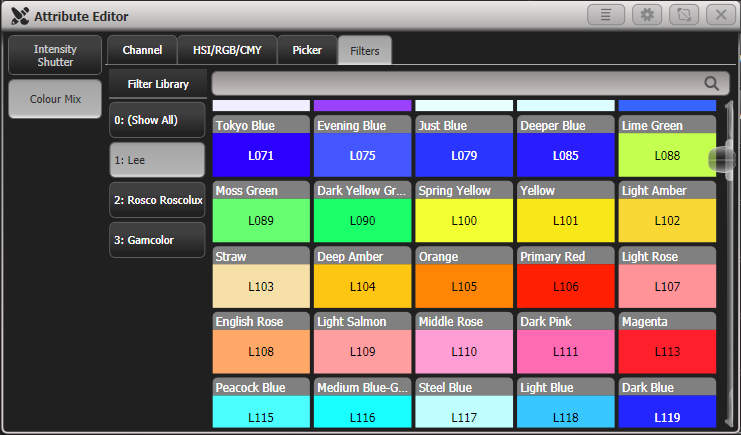
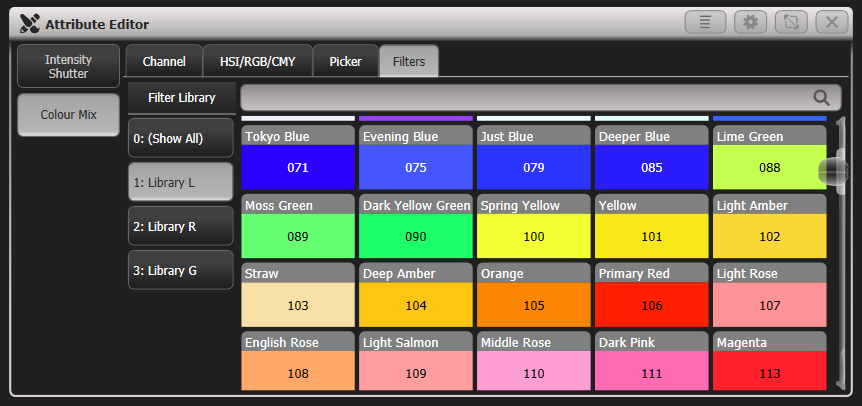
Update colour filter selection to remove brand names

diff --git a/docs/controlling-fixtures/changing-fixture-attributes.md b/docs/controlling-fixtures/changing-fixture-attributes.md
@@ -238,12 +238,12 @@ hand side to set the intensity.
 
 ![Attribute Editor - Colour Filters](/docs/images/Attribute-Editor-Filters.png)
 
-Lets you pick a gel/filter colour from the Lee, Roscolux or GamColor
+Lets you pick a gel/filter colour from commonly used
 ranges of filters. You can search for a particular colour by name or by
 number using the search bar. There is a context menu button to <Keys.SoftKey>Order
 Filters by Number</Keys.SoftKey> or <Keys.SoftKey>Order Filters by Hue</Keys.SoftKey>.
 
-- Using the keypad you can directly select a gel/filter by its reference number by typing <Keys.HardKey>@</Keys.HardKey> *brand number* <Keys.HardKey>/</Keys.HardKey> *Gel number*. For example to set all selected fixtures to Lee 106 you would type <Keys.HardKey>@</Keys.HardKey> *1* <Keys.HardKey>/</Keys.HardKey> *106*. Or you can select fixtures as part of the command, for example 10 <Keys.HardKey>@</Keys.HardKey> 1 <Keys.HardKey>/</Keys.HardKey> 106 would set the fixture with user number 10 to Lee 106. For this command 1=Lee, 2=Roscolux, 3=GamColor. If your console does not have a hardware <Keys.HardKey>/</Keys.HardKey> button you will need to use an external keyboard or the touch keyboard.
+- Using the keypad you can directly select a gel/filter by its reference number by typing <Keys.HardKey>@</Keys.HardKey> *library number* <Keys.HardKey>/</Keys.HardKey> *Gel number*. For example to set all selected fixtures to 106 from "Library L" you would type <Keys.HardKey>@</Keys.HardKey> *1* <Keys.HardKey>/</Keys.HardKey> *106*. Or you can select fixtures as part of the command, for example 10 <Keys.HardKey>@</Keys.HardKey> 1 <Keys.HardKey>/</Keys.HardKey> 106 would set the fixture with user number 10 to 106. For this command 1=Library L, 2=Library R, 3=Library G. If your console does not have a hardware <Keys.HardKey>/</Keys.HardKey> button you will need to use an external keyboard or the touch keyboard.
 
 > For LED fixtures with additional emitters for Warm/Cool white, Amber, UV, Lime or Cyan, Colour Mix will automatically control all the colour channels to obtain the colour. In versions previous to Titan v9 only RGB elements were controlled by the colour picker and other colours had to be set independently.
 
